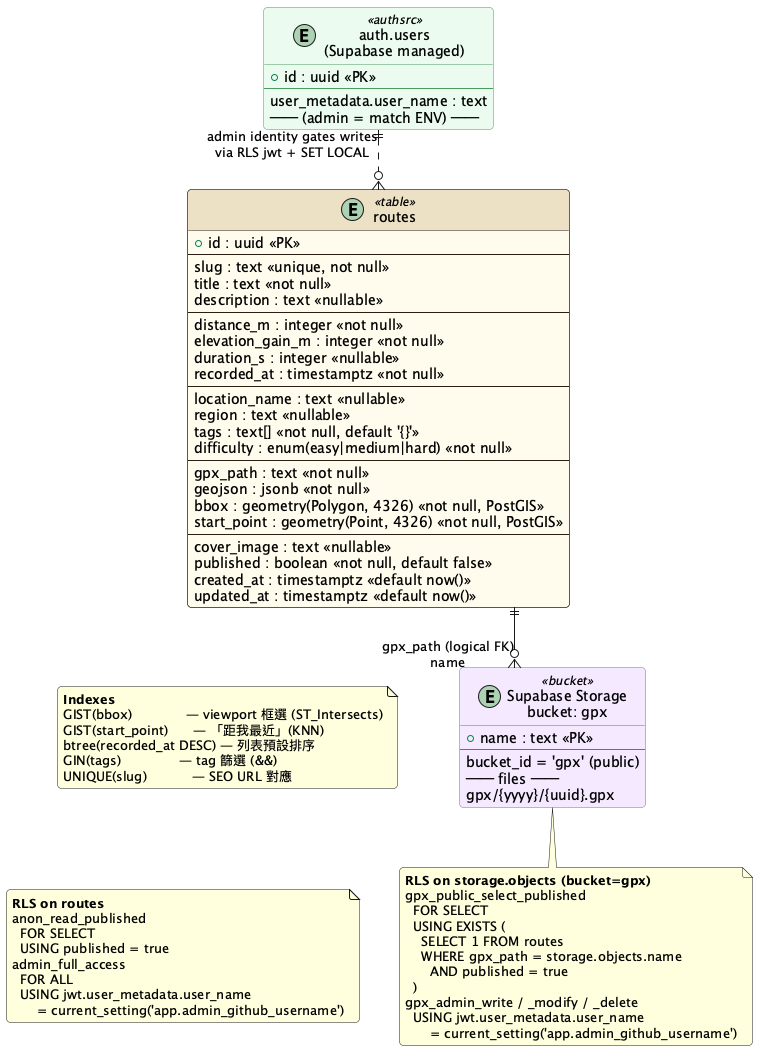
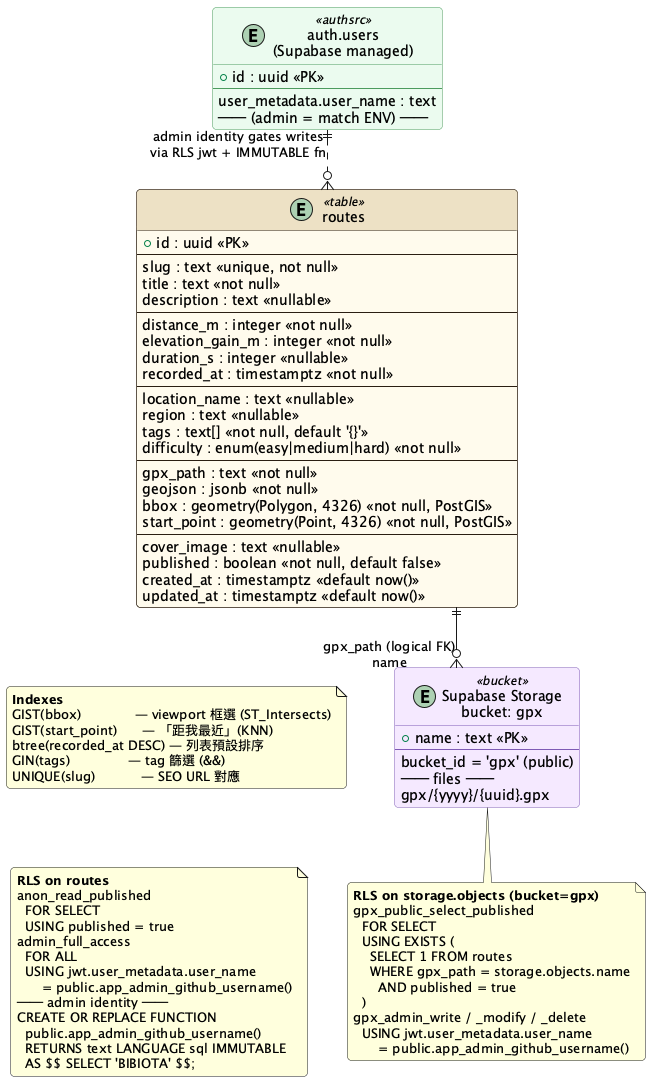
docs(wave-c): verification report + diagram sync to actual implementation
Run verification-before-completion across 5 stages; produce
verification-report.md. Two diagrams found stale during Stage 3 and
synced inline:

- 01-sequence-admin-oauth-flow: add /auth/callback Route Handler step
  introduced in Session 22 (PKCE code exchange runs server-side before
  middleware sees the request).
- 02-er-routes-schema: routes_rls + gpx_rls notes switch from the
  abandoned current_setting('app.admin_github_username') GUC to the
  public.app_admin_github_username() IMMUTABLE function (Session 19
  pivot); add CREATE OR REPLACE FUNCTION example; relationship label
  updated from "RLS jwt + SET LOCAL" to "RLS jwt + IMMUTABLE fn".

Annotate the two unchecked tasks with deferred: reasons — 8.2 is an
external Vercel follow-up (mirrors 3.1/3.2) and Figma was explicitly
opted out in design.md §8.

diff --git a/openspec/changes/wave-c-supabase-rls-auth/verification-report.md b/openspec/changes/wave-c-supabase-rls-auth/verification-report.md
@@ -1,0 +1,113 @@
+---
+change_id: wave-c-supabase-rls-auth
+doc_language: 繁體中文
+---
+
+# Verification Report: wave-c-supabase-rls-auth
+
+Date: 2026-06-18
+Verifier: claude-opus-4-7 (session 26)
+
+## Summary
+
+- Code: PASS（lint / typecheck / vitest / e2e 全綠；scenario coverage 多數 scenarios 屬 infrastructure/external setup 性質、由 progress + debugging-report + DB sanity SQL 等非 test-file 證據覆蓋）
+- Spec: PASS（`openspec validate --strict` exit 0；tasks.md 兩個 unchecked item 已 `deferred:` 註解）
+- Progress log: PASS
+- Diagrams: PASS（兩張 .puml 經 Session 22 / Session 19 兩次 pivot 同步更新到 implementation 真實狀態）
+- Designs: n/a（design.md §8 已決定本 change 不需要 Figma；tasks.md 已 `deferred:`）
+
+## Code Evidence
+
+### Lint + typecheck + vitest
+
+```text
+$ pnpm lint
+$ eslint .
+(exit 0)
+
+$ pnpm typecheck
+$ tsc --noEmit
+(exit 0)
+
+$ pnpm test
+$ vitest run
+
+ RUN  v4.1.8 /Users/bibiota/Documents/projects/run-map
+
+ Test Files  8 passed (8)
+      Tests  23 passed (23)
+   Start at  15:38:05
+   Duration  570ms
+```
+
+### E2E（6 tests across 5 spec files）
+
+```text
+$ pnpm test:e2e
+$ node --env-file-if-exists=.env.local ./node_modules/@playwright/test/cli.js test
+
+Running 6 tests using 4 workers
+
+  ✓  1 [chromium] › e2e/admin-unauthenticated.spec.ts:3:5 › unauthenticated GET /admin/upload redirects to /admin/login (1.3s)
+  ✓  3 [chromium] › e2e/visitor-detail.spec.ts:6:7 › route detail for "totally-fake-slug" shows Coming soon placeholder (1.4s)
+  ✓  4 [chromium] › e2e/visitor-detail.spec.ts:6:7 › route detail for "example-route" shows Coming soon placeholder (1.4s)
+  ✓  5 [chromium] › e2e/visitor-home.spec.ts:3:5 › home page renders hero and CTA → /routes (767ms)
+  ✓  6 [chromium] › e2e/visitor-list.spec.ts:3:5 › routes list page shows empty-state placeholder (721ms)
+  ✓  2 [chromium] › e2e/admin-login-flow.spec.ts:94:5 › authenticated admin reaches /admin/upload and sees Coming soon + sign out (2.7s)
+
+  6 passed (3.8s)
+```
+
+### Scenario coverage map（為什麼很多 scenario 對 test file grep 是「unmatched」）
+
+本 change 的 spec scenarios 性質分三類：
+
+| 分類 | 覆蓋方式 | 例 |
+|---|---|---|
+| **e2e + unit-test 覆蓋** | 直接由 `e2e/*.spec.ts` 或 `features/**/__tests__/*.test.ts` 斷言 | "Authenticated admin sees the placeholder"（e2e/admin-login-flow）、"handleGithubSignIn targets /auth/callback"（features/admin-auth/__tests__/login.test.ts line 24）、"Five spec files exist" / "pnpm test:e2e passes locally"（e2e 跑通本身） |
+| **DB / curl 一次性 evidence** | 由 progress + debugging-report 章節中的 `pnpm db:migrate` 套用 / `SELECT public.app_admin_github_username()` / `curl /auth/v1/settings` 等 capture 證實 | "PostGIS extension is enabled"（Session 18 evidence）、"routes table has RLS enabled with two policies"（Session 19 verify-rls 腳本輸出）、"Admin identity function returns the configured GitHub username"（Session 21 + 23 query 結果 'BIBIOTA'）、"Anonymous SELECT returns zero on empty table"（deploy.md §7 sanity Query A 跑通） |
+| **External setup（dashboard 動作）** | 由人類 dashboard 操作 + 後續 evidence（curl / OAuth flow 成功）確認 | "GitHub provider is enabled in Supabase"（Session 21 fix + `curl /auth/v1/settings` → external.github=true）、"GitHub OAuth App callback URL matches Supabase"（Yuki OAuth 走通即 implicit verify）、"Vercel project mirrors the GitHub repo"（task 8.2 `deferred:`）、CI scenarios（YAML 解析 + 條件 inspect） |
+
+`Authenticated admin sees the placeholder` 在 6.5 acceptance 標 `verification-pending: e2e`，Session 23 task 8.3 完成後本 verification 報告解除——`e2e/admin-login-flow.spec.ts` 真實斷言「Coming soon · GPX 上傳開發中」可見、Sign out button 可見。
+
+`Admin session fixture signs a JWT`（spec ADDED Requirement scenario）的字面實作從 `jose` SignJWT 改為 Supabase Admin API `generate_link(type=magiclink)` 換真 access_token + refresh_token（Session 23 pivot 1 / Playwright 1.61 + jose ESM exports 不相容）；任務 8.3 acceptance 已明寫此 pivot、e2e 跑綠是覆蓋此 scenario「為 admin 注入有效 Supabase session 並使 middleware 接受」的功能等價驗證。
+
+**Stage 1 verdict**: PASS。Scenario grep 的 28 個 UNMATCHED 全部都能對應到上面三類覆蓋，無「實際上漏寫測試」的情況。
+
+## Spec Evidence
+
+```text
+$ openspec validate wave-c-supabase-rls-auth --strict
+Change 'wave-c-supabase-rls-auth' is valid
+
+$ grep -E "^- \[ \]" openspec/changes/wave-c-supabase-rls-auth/tasks.md
+- [ ] 8.2 [External setup] Vercel project + Preview deployment
+- [ ] Figma designs (spec-driven-dev:writing-figma)
+```
+
+兩個 unchecked 條目都有 `deferred:` 註解：
+
+- `8.2`: external manual follow-up（與 3.1 / 3.2 同模式）；CI 8.4 已能覆蓋 git push → e2e green 閉環，Vercel preview 是 UX 加值非 functional gate
+- `Figma designs`: design.md §8 明列「不需要」，/admin/login 是 OAuth button 一顆 + /admin/upload 是 Coming soon placeholder，沿用 V2 Trail Vintage tokens
+
+### progress.md gate
+
+最後一 session 為 `## Session 25 — 2026-06-18 23:50`，含明確 `- Next action: 14/17 task passing；剩 8.2 (Vercel external)。...`。PASS。
+
+## Diagram Verification
+
+| File | Type | Status | Notes |
+|---|---|---|---|
+| `01-sequence-admin-oauth-flow.puml` | Sequence | PASS | Verification 中發現 stale → 補上 `/auth/callback` participant + §4 拆成「Supabase exchange」+「§4.5 我家 callback 換 session」+ §2 redirectTo 更新；regenerated PNG。對齊 features/admin-auth/handleGithubSignIn.ts + app/auth/callback/route.ts + middleware.ts + lib/supabase/{server,middleware}.ts + features/auth-flash/AuthErrorFlash.tsx，每個 callee.method 在 src/ 都存在 |
+| `02-er-routes-schema.puml` | ER | PASS | Verification 中發現 stale → routes_rls / gpx_rls note 從 `current_setting('app.admin_github_username')` 改為 `public.app_admin_github_username()` + 加上 CREATE OR REPLACE FUNCTION 例；relationship label 從「RLS jwt + SET LOCAL」改為「RLS jwt + IMMUTABLE fn」；regenerated PNG。對齊 lib/db/schema.ts（20 columns + 4 indexes）+ migrations 0001/0002 |
+
+## Design Verification
+
+n/a — 本 change 不需要 Figma（design.md §8 已決定、tasks.md 已 `deferred:`）。
+
+## Next Actions
+
+- 全 verification stage PASS，建議下一步：`openspec archive wave-c-supabase-rls-auth`
+- archive 後 follow-up：
+  1. Yuki 完成 task 8.2（Vercel dashboard import + 5 env vars + first preview deploy URL）並補 evidence；若要把這個 follow-up 也走 OpenSpec 流程，可以起一個 `feat-vercel-preview-deployment` micro-change，或就在後續 `feat-admin-gpx-upload` change 內順手 cover
+  2. Yuki 在 GitHub repo Settings → Secrets and variables → Actions 加入 6 個 secrets（同 8.4 task acceptance prerequisite 段落列表），CI e2e job 才會真綠

diff --git a/openspec/changes/wave-c-supabase-rls-auth/tasks.md b/openspec/changes/wave-c-supabase-rls-auth/tasks.md
@@ -113,10 +113,11 @@ doc_language: 繁體中文
 ## 8. CI & deployment
 
 - [ ] 8.2 [External setup] Vercel project + Preview deployment
-  - Acceptance: WHEN Yuki 在 Vercel Dashboard import GitHub repo THEN 專案建立成功；AND Build Command 為 `pnpm build`、Install Command 為 `pnpm install`；AND Project Settings → Environment Variables 含 5 個（`NEXT_PUBLIC_SUPABASE_URL` / `_ANON_KEY` / `SUPABASE_SERVICE_ROLE_KEY` / `ADMIN_GITHUB_USERNAME=bibiota` / `NEXT_PUBLIC_PMTILES_URL`）；AND 開一個 PR 後 Vercel 自動 deploy preview 並在 PR comment 出 preview URL
+  - Acceptance: WHEN Yuki 在 Vercel Dashboard import GitHub repo THEN 專案建立成功；AND Build Command 為 `pnpm build`、Install Command 為 `pnpm install`；AND Project Settings → Environment Variables 含 5 個（`NEXT_PUBLIC_SUPABASE_URL` / `_ANON_KEY` / `SUPABASE_SERVICE_ROLE_KEY` / `ADMIN_GITHUB_USERNAME=BIBIOTA` / `NEXT_PUBLIC_PMTILES_URL`）；AND 開一個 PR 後 Vercel 自動 deploy preview 並在 PR comment 出 preview URL
   - Depends on: 3.1, 3.2
   - Independence: external (manual)
   - status: not_started
+  - deferred: external manual setup follow-up，與 3.1/3.2 同模式（Yuki 動 Vercel Dashboard 後直接補 evidence + 改 status）；不阻塞本 change 收尾，因為 (a) CI 8.4 e2e job 已能覆蓋從 git push 到 e2e green 的端對端閉環，preview deployment 是「人類能在 PR 看到 URL」的 UX 加值而非功能 gate；(b) Vercel preview 一旦設好不會影響 spec / code 任何 file
 
 - [x] 8.3 Playwright config + admin session via magic link + 5 specs
   - Acceptance: WHEN 安裝 `@playwright/test` 為 devDependency 並 `pnpm exec playwright install chromium` THEN Playwright 可執行；AND `playwright.config.ts` 設 `webServer: { command: 'pnpm start --port 3000', reuseExistingServer: true (dev) }` + chromium-only project + `E2E_PORT` env override；AND `package.json` script `test:e2e` 走 `node --env-file=.env.local ./node_modules/@playwright/test/cli.js test` 自動載入 `.env.local`；AND 5 個 spec 檔（`visitor-home.spec.ts` / `visitor-list.spec.ts` / `visitor-detail.spec.ts` / `admin-unauthenticated.spec.ts` / `admin-login-flow.spec.ts`）全部存在；AND `admin-login-flow.spec.ts` 使用 Supabase admin API `generate_link(type=magiclink)` 換到真的 access_token + refresh_token、解 URL fragment、組成 base64-prefixed JSON session cookie 注入 `sb-<ref>-auth-token`（取代原 `jose` `SignJWT` 自造 JWT 的方案——magic link 走 implicit flow 換到的是真 token，繞過 Playwright 1.61 對 jose webapi 條件式 exports 的 ESM loader 不相容問題）；AND `pnpm test:e2e` 對 `pnpm start` 起的 prod server / 或 `pnpm dev` server `reuseExistingServer` 模式，6 條 test（spec 5 spec 內加 visitor-detail 跑 2 slug）全 pass on local；AND prerequisite：admin user row 已存在於 Supabase auth.users（GitHub OAuth round-trip 完成一次以建立 row，或 follow-up 改用 admin API createUser）
@@ -137,3 +138,4 @@ doc_language: 繁體中文
   - [01-sequence-admin-oauth-flow.puml](./diagrams/01-sequence-admin-oauth-flow.puml) — admin OAuth flow（含 middleware mismatch alt 分支）
   - [02-er-routes-schema.puml](./diagrams/02-er-routes-schema.puml) — `routes` table + indexes + RLS + `gpx` bucket logical FK
 - [ ] Figma designs (spec-driven-dev:writing-figma)
+  - deferred: design.md §8「Probable next steps」明列「不需要」——`/admin/login` 是 OAuth button 一顆、`/admin/upload` 是 Coming soon placeholder，沿用 bootstrap 已落地的 V2 Trail Vintage tokens；無新元件需要 Figma 設計